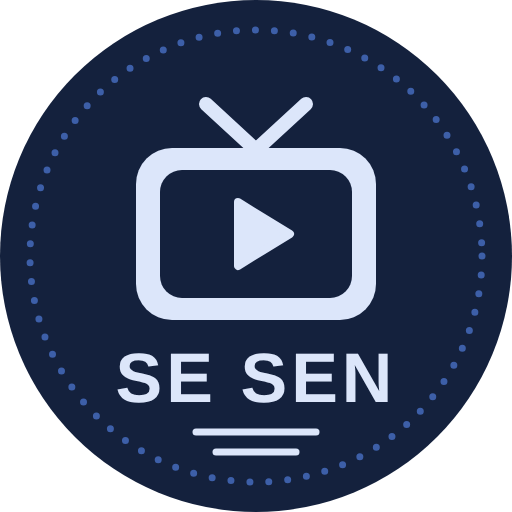
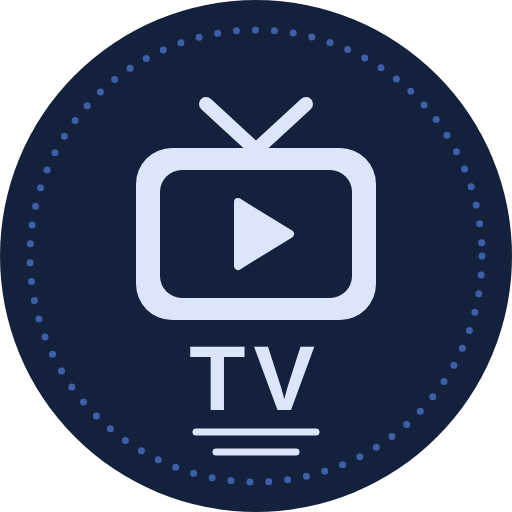
Byt namn till TV
Claude-Session: https://claude.ai/code/session_018ajE8BNAxVZYbfouVWTyQe

Changed region(s): [[0.2188, 0.6562, 0.7812, 0.8125]]

diff --git a/index.html b/index.html
@@ -4,7 +4,7 @@
 <meta charset="utf-8">
 <meta name="viewport" content="width=device-width, initial-scale=1, viewport-fit=cover">
 <meta name="theme-color" content="#e8f2fb">
-<title>Se sen</title>
+<title>TV</title>
 <link rel="manifest" href="manifest.webmanifest">
 <link rel="icon" href="icon-192.png">
 <link rel="apple-touch-icon" href="icon-maskable-512.png">
@@ -166,7 +166,7 @@ footer{color:var(--mut);font-size:.8rem;line-height:1.5;margin:32px 0 0;text-ali
 <body>
 <main>
   <div class="top">
-    <h1>Se sen</h1>
+    <h1>TV</h1>
     <div class="icons">
       <button id="btnTema" class="rund" type="button"></button>
       <button id="btnUppdatera" class="rund kravernyckel" type="button" aria-label="Uppdatera info" title="Uppdatera info">
@@ -180,7 +180,7 @@ footer{color:var(--mut);font-size:.8rem;line-height:1.5;margin:32px 0 0;text-ali
   <p class="sub" id="dagtext">Filmer och serier att se</p>
 
   <section id="valkommen" class="valkommen" hidden>
-    <h2>Välkommen till Se sen! 🍿</h2>
+    <h2>Välkommen till TV! 🍿</h2>
     <p>Här samlar du filmer och serier du vill se. Sidan hämtar affischer, beskrivningar, premiärdatum och var de finns att streama från TMDB.</p>
     <p>Klistra in din gratis API-nyckel från TMDB här nedanför. Nyckeln sparas bara i din webbläsare, inte i någon fil.</p>
     <div class="falt">
@@ -767,14 +767,14 @@ footer{color:var(--mut);font-size:.8rem;line-height:1.5;margin:32px 0 0;text-ali
   }
 
   function downloadBackup() {
-    const data = JSON.stringify({ app: 'se-sen', version: 1, exported: today(), items }, null, 2);
+    const data = JSON.stringify({ app: 'tv', version: 1, exported: today(), items }, null, 2);
     const blob = new Blob([data], { type: 'application/json' });
     const a = document.createElement('a');
     a.href = URL.createObjectURL(blob);
-    a.download = 'se-sen-' + today() + '.json';
+    a.download = 'tv-lista-' + today() + '.json';
     document.body.appendChild(a); a.click(); a.remove();
     setTimeout(() => URL.revokeObjectURL(a.href), 2000);
-    $('#bkMsg').textContent = 'Kopian heter se-sen-' + today() + '.json och ligger bland dina nedladdningar.';
+    $('#bkMsg').textContent = 'Kopian heter tv-lista-' + today() + '.json och ligger bland dina nedladdningar.';
   }
 
   function importBackup(e) {
@@ -787,7 +787,7 @@ footer{color:var(--mut);font-size:.8rem;line-height:1.5;margin:32px 0 0;text-ali
       try { data = JSON.parse(reader.result); } catch (err) { $('#bkMsg').textContent = 'Filen gick inte att läsa. Är det rätt fil?'; return; }
       const list = Array.isArray(data) ? data : data.items;
       if (!Array.isArray(list) || !list.every(x => x && x.id && (x.type === 'movie' || x.type === 'tv'))) {
-        $('#bkMsg').textContent = 'Filen ser inte ut som en kopia från Se sen.'; return;
+        $('#bkMsg').textContent = 'Filen ser inte ut som en kopia från TV-appen.'; return;
       }
       askConfirm('Ersätta din lista?',
         'Din nuvarande lista med <b>' + items.length + '</b> titlar ersätts av kopian med <b>' + list.length + '</b> titlar. Det går inte att ångra.',
